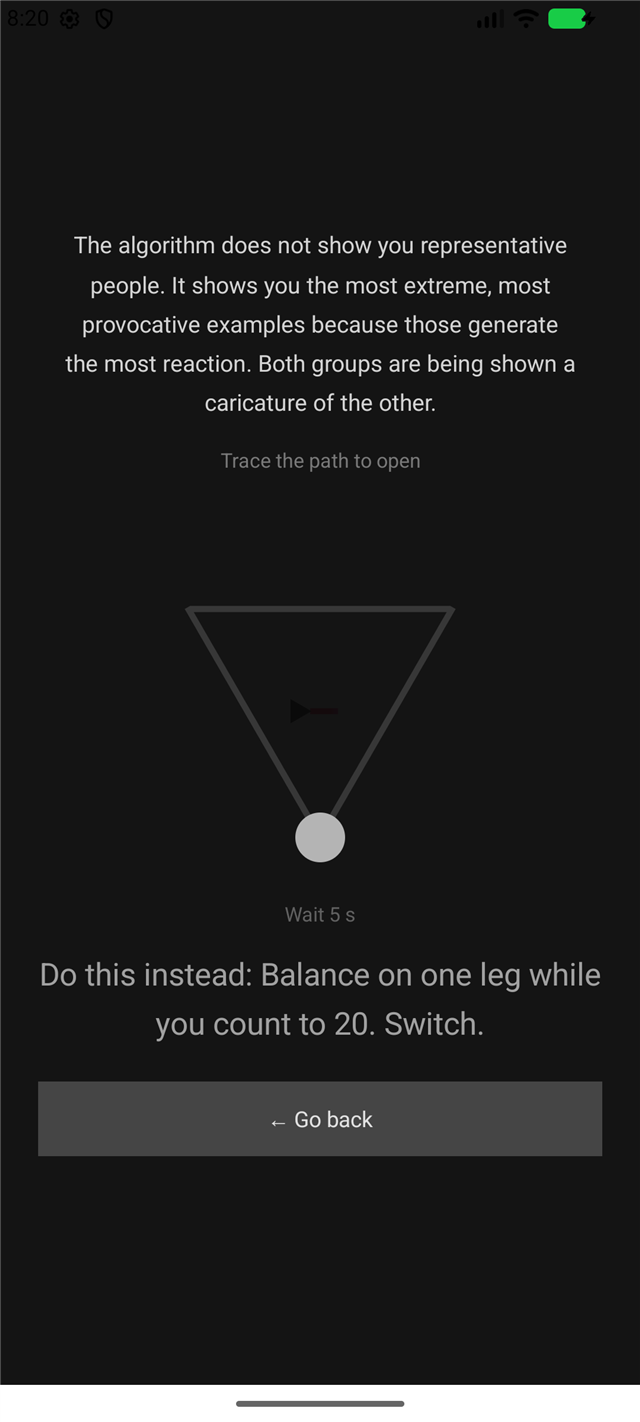
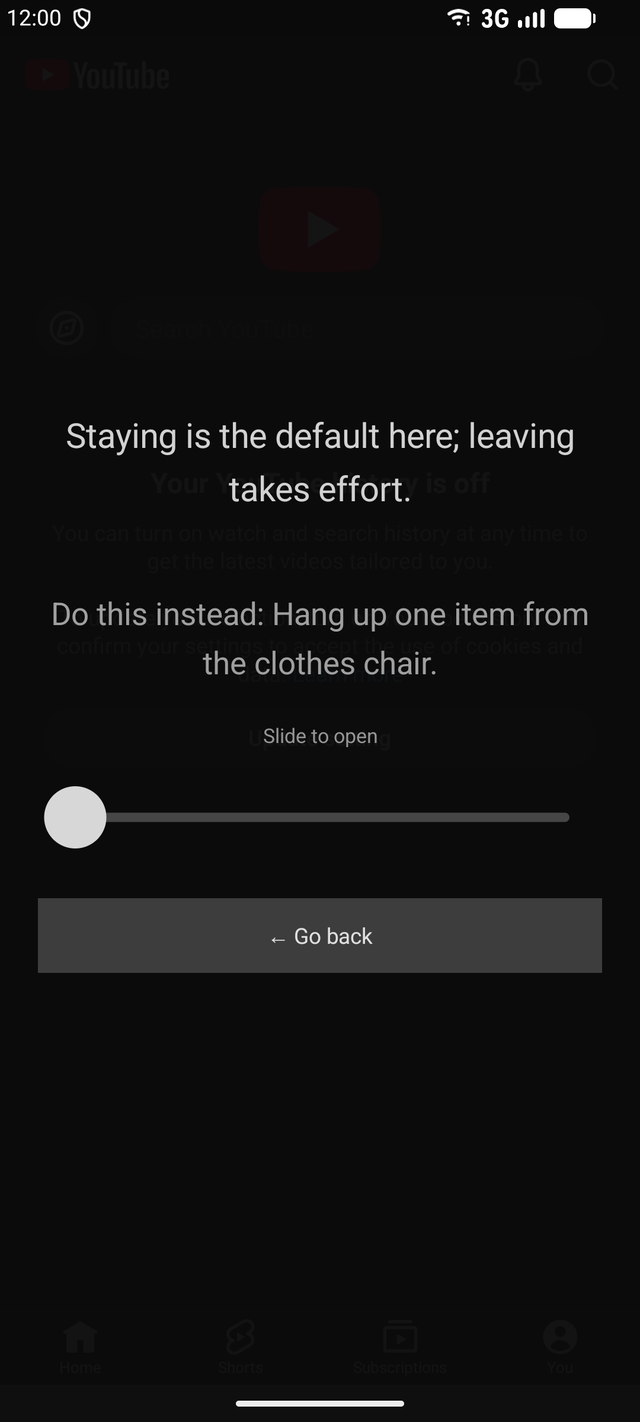
docs: refresh README screenshots
Replace the intent gate shot with the straight slide-to-open track and
add home screen modes, app drawer, math unlock with a personal line,
cool-down, and settings. Gate and cool-down overlays are always dark,
so they ship as single images; the rest have light/dark pairs.

diff --git a/README.md b/README.md
@@ -77,11 +77,23 @@ Screens follow your system theme — shown here in light and dark (switch global
 
 | Intent gate | Onboarding | Watched apps |
 |:---:|:---:|:---:|
-| <picture><source media="(prefers-color-scheme: dark)" srcset="assets/Screenshots/intent_gate_dark.png"><img src="assets/Screenshots/intent_gate.png" width="480" alt="Intent gate overlay with countdown and slide-to-open"></picture> | <picture><source media="(prefers-color-scheme: dark)" srcset="assets/Screenshots/onboarding_dark.png"><img src="assets/Screenshots/onboarding.png" width="480" alt="Onboarding — first-run flow"></picture> | <picture><source media="(prefers-color-scheme: dark)" srcset="assets/Screenshots/watched_apps_dark.png"><img src="assets/Screenshots/watched_apps.png" width="480" alt="Watched apps picker"></picture> |
+| <img src="assets/Screenshots/intent_gate.png" width="480" alt="Intent gate overlay with a straight slide-to-open track"> | <picture><source media="(prefers-color-scheme: dark)" srcset="assets/Screenshots/onboarding_dark.png"><img src="assets/Screenshots/onboarding.png" width="480" alt="Onboarding — first-run flow"></picture> | <picture><source media="(prefers-color-scheme: dark)" srcset="assets/Screenshots/watched_apps_dark.png"><img src="assets/Screenshots/watched_apps.png" width="480" alt="Watched apps picker"></picture> |
 
 | Timings | Tidbit library | Cue loop |
 |:---:|:---:|:---:|
 | <picture><source media="(prefers-color-scheme: dark)" srcset="assets/Screenshots/timer_adjustment_dark.png"><img src="assets/Screenshots/timer_adjustment.png" width="480" alt="Gate delay, session limit, and cool-down sliders"></picture> | <picture><source media="(prefers-color-scheme: dark)" srcset="assets/Screenshots/tidbit_library_dark.png"><img src="assets/Screenshots/tidbit_library.png" width="480" alt="Library of tidbits on attention engineering"></picture> | <picture><source media="(prefers-color-scheme: dark)" srcset="assets/Screenshots/cue_loop_dark.png"><img src="assets/Screenshots/cue_loop.png" width="480" alt="Cue loop — the open-gate-cooldown cycle"></picture> |
+
+| Home — empty | Home — tidbit only | Home — clock and tidbit |
+|:---:|:---:|:---:|
+| <picture><source media="(prefers-color-scheme: dark)" srcset="assets/Screenshots/home_empty_dark.png"><img src="assets/Screenshots/home_empty.png" width="480" alt="Empty home screen"></picture> | <picture><source media="(prefers-color-scheme: dark)" srcset="assets/Screenshots/home_tidbit_dark.png"><img src="assets/Screenshots/home_tidbit.png" width="480" alt="Home screen with only the tidbit of the day"></picture> | <picture><source media="(prefers-color-scheme: dark)" srcset="assets/Screenshots/home_clock_dark.png"><img src="assets/Screenshots/home_clock.png" width="480" alt="Home screen with clock, date, and tidbit"></picture> |
+
+| Math unlock + personal line | Cool-down | App drawer |
+|:---:|:---:|:---:|
+| <img src="assets/Screenshots/gate_math_personal.png" width="480" alt="Math problem unlock with a personal line: This is what you spend 47 minutes a day on?"> | <img src="assets/Screenshots/cooldown.png" width="480" alt="Cool-down screen counting down until the app is available again"> | <picture><source media="(prefers-color-scheme: dark)" srcset="assets/Screenshots/drawer_dark.png"><img src="assets/Screenshots/drawer.png" width="480" alt="Alphabetical app drawer with search and letter index"></picture> |
+
+| Settings | Unlock settings |
+|:---:|:---:|
+| <picture><source media="(prefers-color-scheme: dark)" srcset="assets/Screenshots/settings_dark.png"><img src="assets/Screenshots/settings.png" width="480" alt="Settings overview"></picture> | <picture><source media="(prefers-color-scheme: dark)" srcset="assets/Screenshots/settings_unlock_dark.png"><img src="assets/Screenshots/settings_unlock.png" width="480" alt="Math problem unlock, difficulty, and personal lines settings"></picture> |
 
 ---
 
